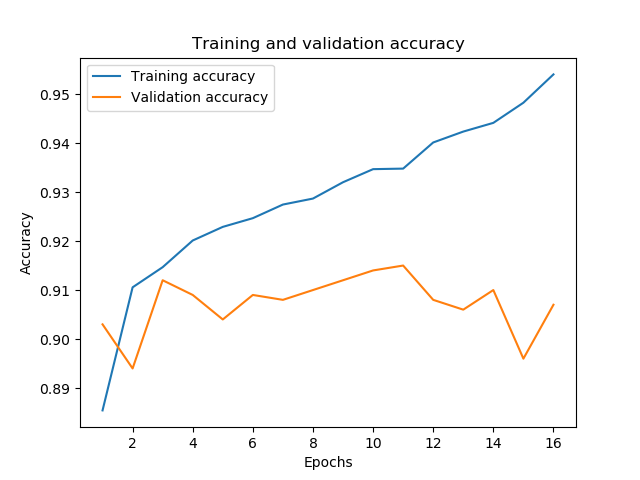
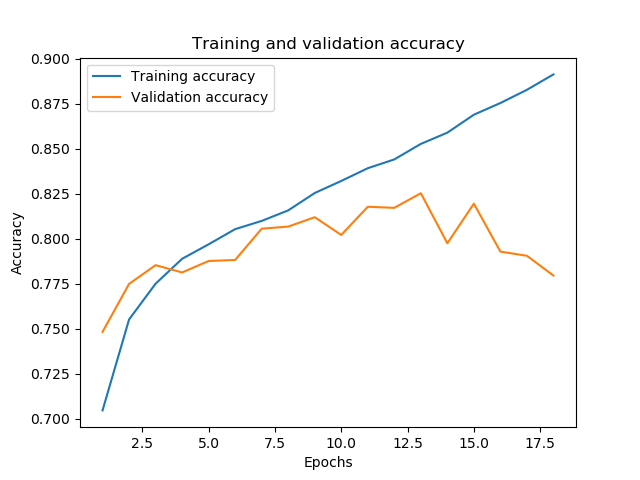
added very basic flask app for visualisation

diff --git a/Code/templates/index.js b/Code/templates/index.js
@@ -1,0 +1,28 @@
+document.addEventListener("DOMContentLoaded", function() {
+
+    // {{ url_for('attention') }}
+    // When the user ID form is submitted, POST input to /process and if the user ID exists, redirect to welcome page
+	$('#form').on('submit', function(event) {
+	    let main_box = $('#main_text');
+
+		$.ajax({
+			data: {
+			text: main_box.val()
+			},
+			type: 'GET',
+			url: '/attention',
+			success: function (response) {
+				if (response) {
+					console.log(response);
+				}
+				else{
+					console.log('no response');
+				}
+				return response;
+			}
+		});
+		// HTML automatically tries to post the form, we therefore manually stop this
+		event.preventDefault();
+	});
+
+});

diff --git a/Code/console.py b/Code/console.py
@@ -1,9 +1,13 @@
 import numpy as np
 import pandas as pd
 from pathlib import Path
-from Code.pkg.model_training.DLmodels import prepare_pre_vectors, load_model_from_file, get_custom_layers
-from Code.pkg.vectors.create_vectors import ElMoVectorizer, GloVeVectorizer
-from Code.pkg.vectors.create_features import SentimentAnnotator, PunctuationAnnotator
+from pkg.model_training.DLmodels import prepare_pre_vectors, load_model_from_file, get_custom_layers
+from pkg.vectors.create_vectors import ElMoVectorizer, GloVeVectorizer
+from pkg.vectors.create_features import SentimentAnnotator, PunctuationAnnotator
+import matplotlib
+from matplotlib.colors import rgb2hex
+from matplotlib.cm import get_cmap
+import matplotlib.pyplot as plt
 from keras.utils import CustomObjectScope
 from keras.models import load_model
 from keras.layers import Activation
@@ -41,6 +45,24 @@ class Vectoriser:
         return list_of_vectors
 
 
+def colorise(token_list: list, color_array: list):
+    """
+    Given attention weights and tokens, visualise colour map
+    :param token_list: list of tokens (strings)
+    :param color_array: array of numbers between 0 and 1
+    :return:
+    """
+    cmap = get_cmap('Reds')
+    template = '<span class="barcode"; style="color: black; background-color: {}">{}</span>'
+    colored_string = ''
+    for t, color in zip(token_list, color_array):
+        # if negative, set to white
+        color_val = rgb2hex((1, 1, 1)) if color < 0 else rgb2hex(cmap(color)[:3])
+        print(color_val)
+        colored_string += template.format(color_val, '&nbsp' + t + '&nbsp')
+    return colored_string
+
+
 def get_fit_vectoriser(path_to_root: str, vector_type: str, features: list):
     vectorisers = [{'glove': GloVeVectorizer(), 'elmo': ElMoVectorizer()}[vector_type]] \
         if vector_type in {'glove', 'elmo'} else [pd.read_pickle(path_to_root + "/processed_data/vectorisers/" +
@@ -54,27 +76,50 @@ def get_fit_vectoriser(path_to_root: str, vector_type: str, features: list):
     return Vectoriser(vectorisers)
 
 
-def get_attention(text: str, trained_model):
-    tokens, sequence = prepare_pre_vectors(text, 'glove', 1, 'attention-lstm')
+def get_attention(text: str):
+    dataset_paths = ["Datasets/Sarcasm_Amazon_Review_Corpus", "Datasets/news-headlines-dataset-for-sarcasm-detection",
+                     "Datasets/ptacek"]
 
-    # print(trained_model.summary())
-    # print(len(sequence))
-    # print(len(sequence[0]))
+    # Choose a dataset from the list of valid data sets
+    dataset_number = 2
+    path_to_dataset_root = dataset_paths[dataset_number]
+    print('Selected dataset: ' + path_to_dataset_root[9:])
+
+    vector = 'glove'
+    feature_list = []
+    model_name = 'attention-lstm'
+
+
+    trained_model = get_trained_model(path_to_dataset_root, vector, feature_list, model_name, dataset_number)
+    # prediction = get_prediction('example string of text', model, dataset_number, model_name)
+    # ----------------------------------------------------------------------------------------
+
+
+    tokens, sequence = prepare_pre_vectors(text, 'glove', 2, 'attention-lstm')
 
     get_full_attention = K.function([trained_model.layers[0].input], [trained_model.layers[3].output])
-    print('Getting output from ', trained_model.layers[3].name)
+    print('Getting output from', trained_model.layers[3].name)
+
+
+
     attention_output = get_full_attention(sequence)  # 1 x 150
     attention_weights, context_vectors = attention_output.pop(0)
-
-    # print('\nAttention Weights\n')
-    # print(attention_weights)
+    print(attention_weights[0])
 
     attention_weights = attention_weights[0]
-    print('\nAttention Weights\n')
-    print(attention_weights)
+    #attention_weights = (attention_weights - attention_weights.min())/(attention_weights.max()-attention_weights.min())
 
-    # print('\nContext Vectors\n')
-    # print(context_vectors)
+    attention_weights = np.interp(attention_weights, (attention_weights.min(), attention_weights.max()), (-0.8, 0.8))
+
+    s = colorise(tokens, attention_weights[:len(tokens)])
+
+
+
+    attention_weights = attention_weights.clip(min=0)
+
+    # or simply save in an html file and open in browser
+    with open('colorise.html', 'w') as f:
+        f.write(s)
 
     list_array = attention_weights.tolist()
     tuple_list = []
@@ -82,12 +127,8 @@ def get_attention(text: str, trained_model):
         attention_val = list_array[val]
         token = tokens[val]
         tuple_list.append((attention_val, token))
-    print(tuple_list)
 
-    # print(get_full_attention([sequence]))
-
-    # sentence_word_embeddings = get_embedding_layer_output([sequence])
-    # get_attention_layer_output(array)
+    return s
 
 
 def get_prediction(text: str, trained_model, d_num, m_name):
@@ -124,7 +165,7 @@ if __name__ == "__main__":
                      "Datasets/ptacek"]
 
     # Choose a dataset from the list of valid data sets
-    dataset_number = 1
+    dataset_number = 2
     path_to_dataset_root = dataset_paths[dataset_number]
     print('Selected dataset: ' + path_to_dataset_root[9:])
 

diff --git a/Code/train.py b/Code/train.py
@@ -44,58 +44,23 @@ def run_dl(models: list, vectors: list, data_sets: list) -> None:
     for dataset in data_sets:  # 0 - AMAZON, 1 - NEWS, 2 - TWEETS
         for model in models:
             for vector in vectors:
-                get_dl_results(model, dataset, vector, set_size=10000)
+                get_dl_results(model, dataset, vector)
 # ---------------------------------------------------------------------
 
 
 if __name__ == '__main__':
     # --------------------------
-    dataset_list = [1]
+    model_list = ['attention-lstm']
+    vector_list = ['glove']
+    feature_list = []
+    dataset_list = [2]
     # --------------------------
 
-    # ml_model_list = ['svm', 'log_reg', 'rfc', 'n_bayes', 'k_means']
-    # ml_model_list = ['log_reg']
-    # # ml_vector_list = ['bag_of_words', 'tf_idf', 'glove', 'elmo']
+    # valid vector-types: 'bag_of_words', 'tf_idf', 'glove', 'elmo'
+    # valid feature-types: 'sentiment', 'punctuation', 'topic_model'
+    # valid ml models: 'svm', 'log_reg', 'rfc', 'n_bayes', 'knn'
+    # valid dl models: 'cnn', 'deep-cnn' 'lstm', 'bi-lstm', 'vanilla-rnn', 'vanilla-gru', 'attention-lstm'
 
-    # ml_feature_list = ['sentiment', 'punctuation', 'topic_model']
-    # run_ml(ml_model_list, ml_vector_list, dataset_list, ml_feature_list)
-
-    # ml_model_list = ['log_reg']
-    # ml_vector_list = ['elmo']
-    #
-    # ml_feature_list = ['sentiment', 'topic_model']
-    # run_ml(ml_model_list, ml_vector_list, dataset_list, ml_feature_list)
-    #
-    # dl_model_list = ['cnn', 'lstm', 'bi-lstm', 'vanilla-rnn', 'vanilla-gru']
-    # dl_vector_list = ['glove', 'elmo']
-    # run_dl(dl_model_list, dl_vector_list, dataset_list)
-
-# ---------------------------------------
-    dl_model_list = ['attention-lstm']
-    dl_vector_list = ['glove']
-    run_dl(dl_model_list, dl_vector_list, [1])
-
-    # dl_model_list = ['cnn']
-    # dl_vector_list = ['elmo']
-    # run_dl(dl_model_list, dl_vector_list, [2])
-
-    # dl_model_list = ['lstm']
-    # dl_vector_list = ['glove']
-    # run_dl(dl_model_list, dl_vector_list, [0])
-    #
-    # dl_model_list = ['bi-lstm']
-    # dl_vector_list = ['elmo']
-    # run_dl(dl_model_list, dl_vector_list, [1])
-    #
-    # dl_model_list = ['vanilla-rnn']
-    # dl_vector_list = ['elmo']
-    # run_dl(dl_model_list, dl_vector_list, [1])
-    #
-    # dl_model_list = ['vanilla-gru']
-    # dl_vector_list = ['elmo']
-    # run_dl(dl_model_list, dl_vector_list, [1])
-    # ------------------------------------
-    #
-    # dl_model_list = ['vanilla-gru']
-    # dl_vector_list = ['glove']
-    # run_dl(dl_model_list, dl_vector_list, [1])
+    # --------------------------
+    # run_ml(model_list, vector_list, dataset_list, feature_list)
+    run_dl(model_list, vector_list, dataset_list)

diff --git a/Code/pkg/model_training/DLmodels.py b/Code/pkg/model_training/DLmodels.py
@@ -128,8 +128,6 @@ class AttentionLayer(Layer):
         at1 = K.softmax(et)
         at2 = K.expand_dims(at1, axis=-1)
         output = tf.math.multiply(x, at2)
-        #tf.map_fn(lambda i: i ** 2 if i > 0 else i, x)
-        #output = x*at2
         # returns the context vector
         return at1, K.sum(output, axis=1)
 
@@ -296,8 +294,8 @@ def prepare_pre_vectors(text: str, vector_type: str, dataset_num: int, model_nam
         tokeniser = pd.read_pickle((base_path / (
                     path_to_dataset_root + "/processed_data/Tokenisers/" + vector_type + "_tokeniser.pckl")).resolve())
         # sequences = tokeniser.texts_to_sequences([t.text for t in nlp(text)])
-        sequences = tokeniser.texts_to_sequences([text]*get_batch_size(model_name))
-        tokens = tokeniser.sequences_to_texts(sequences)
+        sequences = tokeniser.texts_to_sequences([' '.join([t.text for t in nlp(text)])]*get_batch_size(model_name))
+        tokens = [t.text for t in nlp(text)]
         return tokens, pad_sequences(sequences, maxlen=length_limit, padding='post')
     else:
         raise ValueError('Only glove and elmo vectors supported')
@@ -398,7 +396,9 @@ def evaluate_model(model_name, trained_model, testing_data, testing_labels):
     max_batch_size = get_batch_size(model_name)
     probabilities = trained_model.predict(x=np.array(testing_data), batch_size=max_batch_size)
     y_pred = np.where(probabilities > 0.5, 1, 0)
+    print(testing_labels)
     print(probabilities)
+    print(np.array(y_pred))
     print(y_pred)
     f1 = f1_score(np.array(testing_labels), np.array(y_pred))
     precision = precision_score(np.array(testing_labels), np.array(y_pred))
@@ -428,7 +428,7 @@ def get_dl_results(model_name: str, dataset_number: int, vector_type: str, set_s
 
     s_data, l_data, dl_model = get_model(model_name, dataset_name, clean_data, sarcasm_labels, vector_type, split)
     custom_layer = get_custom_layers(model_name, vector_type)
-    training_data, testing_data, training_labels, testing_labels = train_test_split(s_data, l_data, test_size=split, shuffle=False)
+    training_data, testing_data, training_labels, testing_labels = train_test_split(s_data, l_data, test_size=split, shuffle=True)
 
     stem = model_name + '_with_' + vector_type + '_on_' + str(dataset_number) + '.h5'
     file_name = str(base_path / ('../trained_models/' + stem))

diff --git a/Code/app.py b/Code/app.py
@@ -1,0 +1,37 @@
+from flask import Flask, render_template, request, jsonify, redirect
+from console import get_attention
+
+app = Flask(__name__, template_folder='templates')
+
+
+@app.route('/')
+def login():
+    """
+    Configure route to home page
+    :return: Render login page
+    """
+    return render_template('index.html')
+
+
+@app.route('/attention', methods=['GET'])
+def attention():
+    print('here')
+    text = request.args.get('main_text')
+    print(text)
+    print(get_attention(text))
+    attention_map = get_attention(text)
+    return attention_map
+    #return render_template("index.html", data=attention_map)
+
+
+
+
+# user_id_str = request.args.get('user')
+#     try:
+#         user_id = int(user_id_str.strip())
+#         all_users = recommender.get_all_users()
+#         if user_id in all_users:        # render user dashboard if a valid user id is provided
+#             return render_template('recommendations.html', user=user_id_str)
+#         return redirect("/")       # if user id is invalid, redirect to the login page
+#     except AttributeError:
+#         return redirect("/")       # if no user id is provided, redirect to the login page

diff --git a/Code/pkg/model_training/MLmodels.py b/Code/pkg/model_training/MLmodels.py
@@ -81,7 +81,7 @@ def get_ml_results(model_name: str, vector_type: str, feature_list: list, datase
     file_name = str(base_path / stem)
     start = time.time()
     _, sarcasm_labels, sarcasm_data, _, _ = prepare_data(dataset_number, vector_type, feature_list)
-    training_data, testing_data, training_labels, testing_labels = train_test_split(sarcasm_data, sarcasm_labels, test_size=split, shuffle=False)
+    training_data, testing_data, training_labels, testing_labels = train_test_split(sarcasm_data, sarcasm_labels, test_size=split, shuffle=True)
 
     if isfile(file_name):
         print('Model with filename "' + stem + '" already exists - collecting results')
